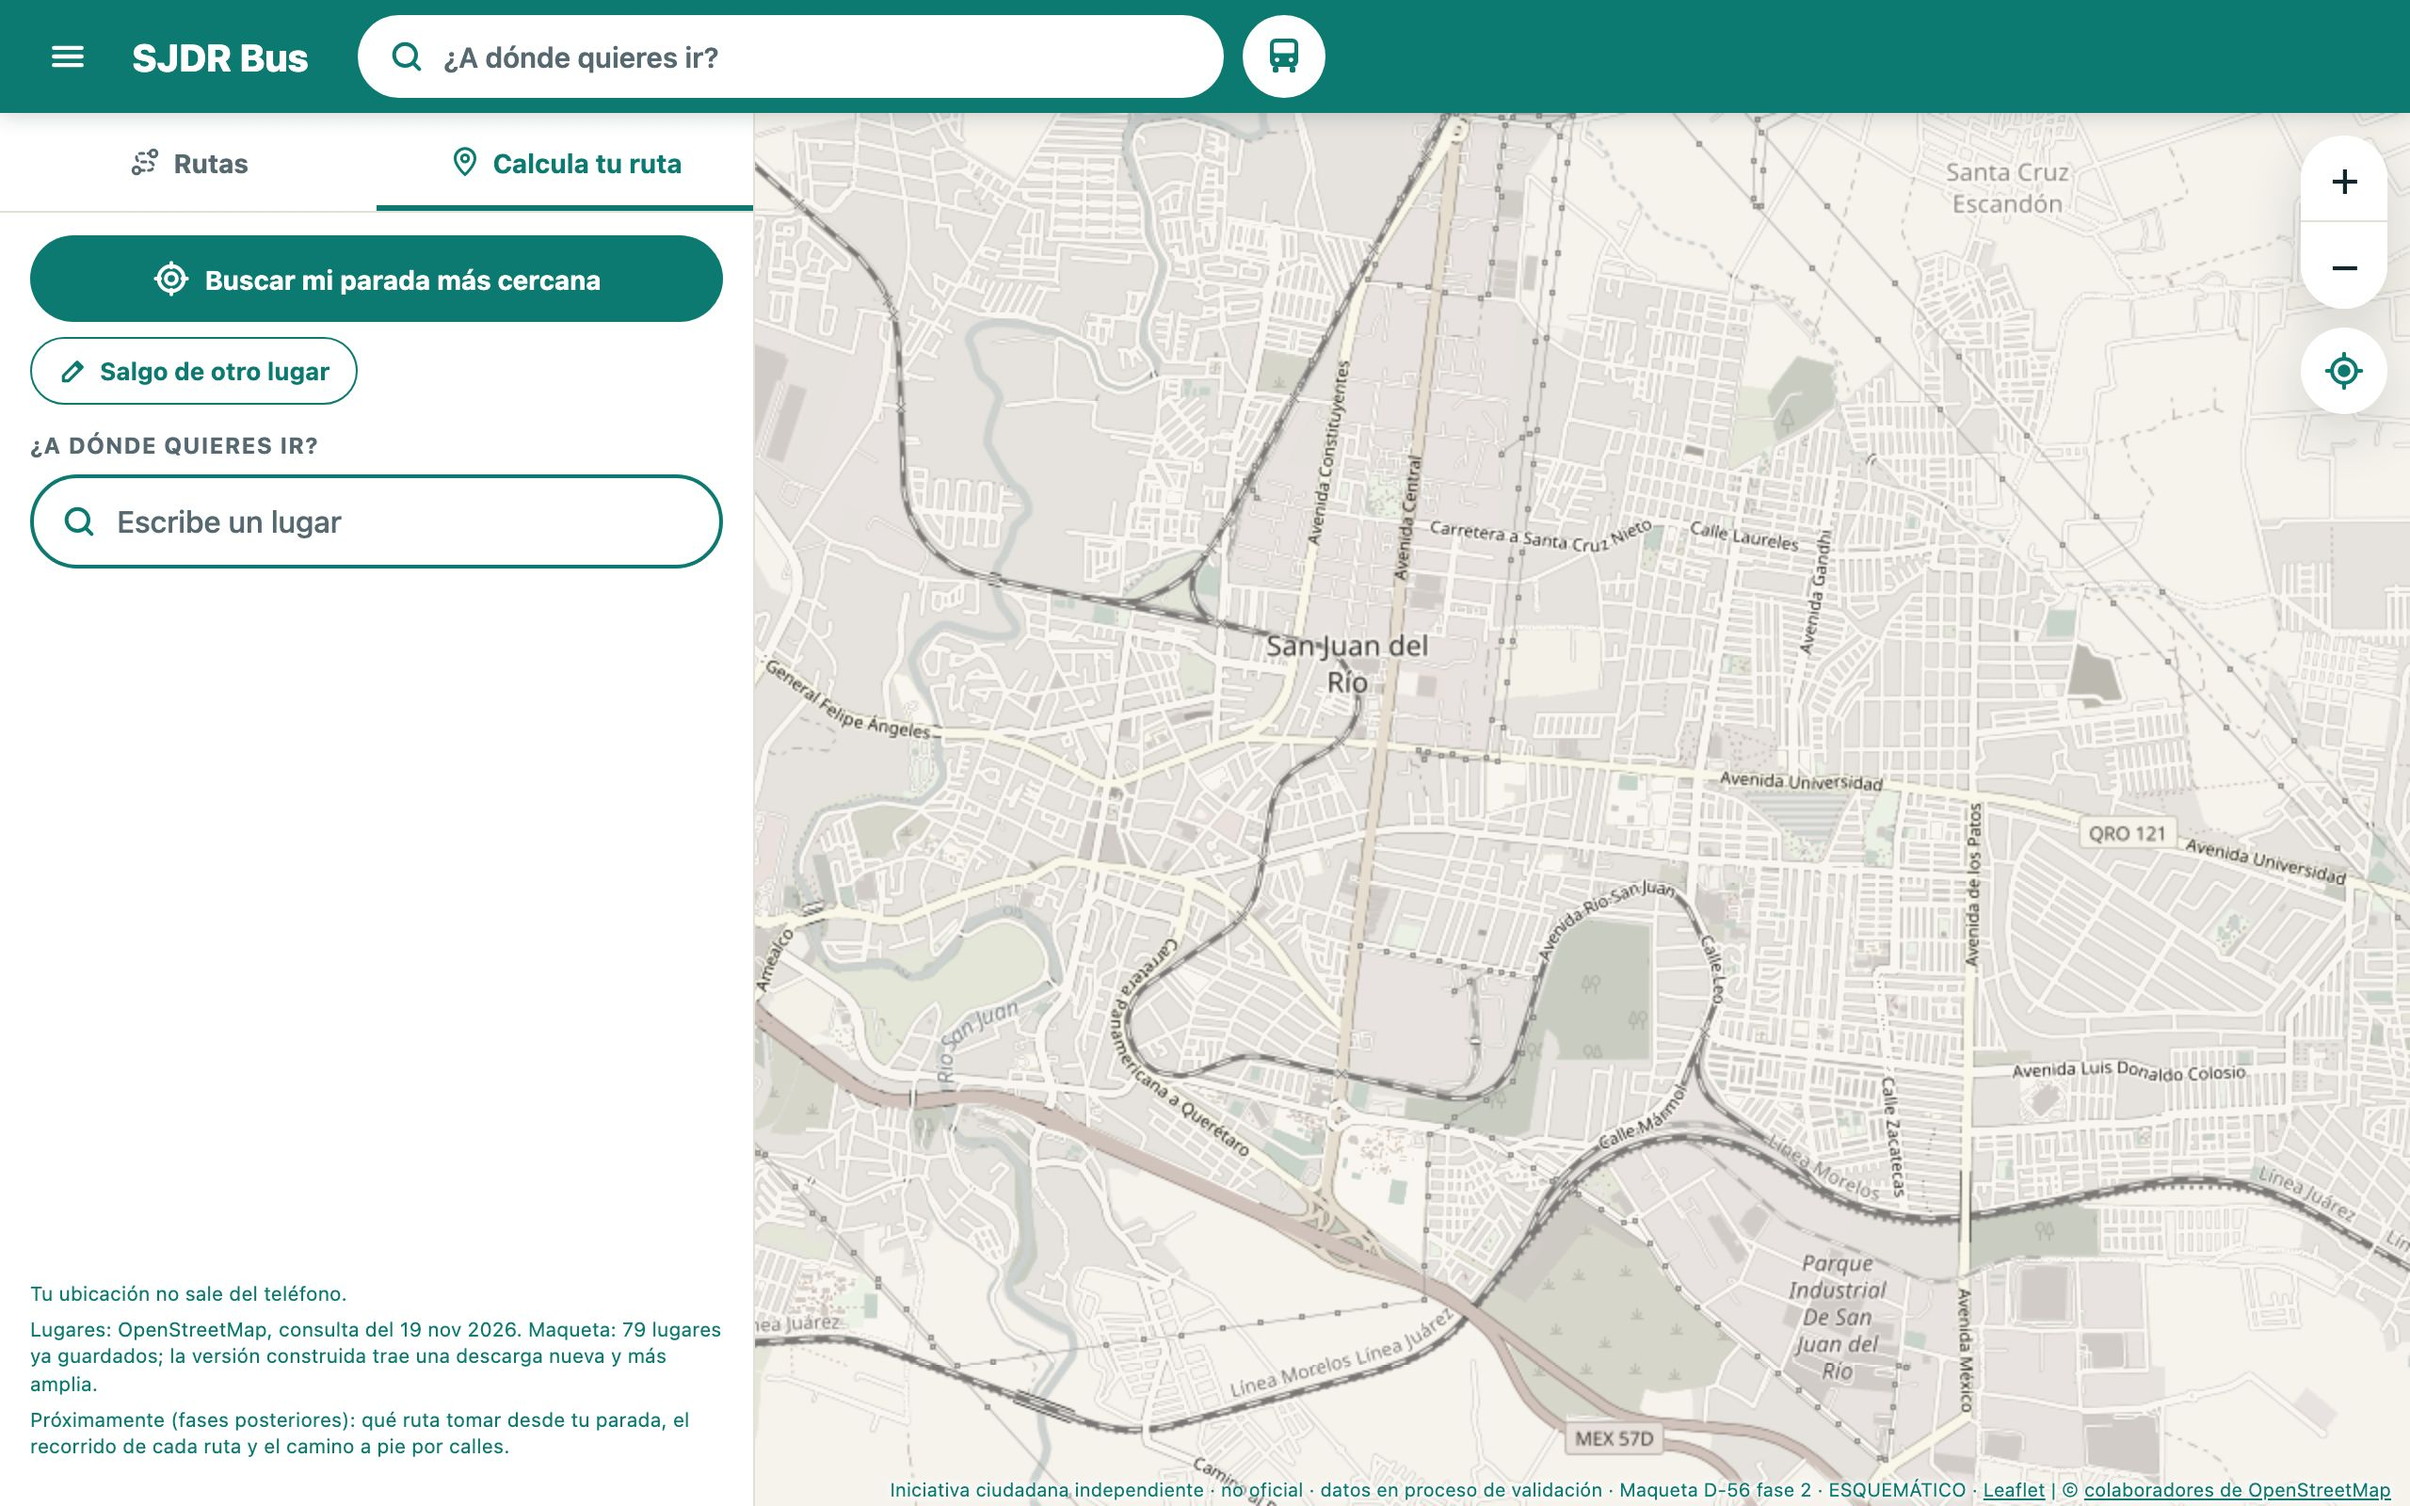
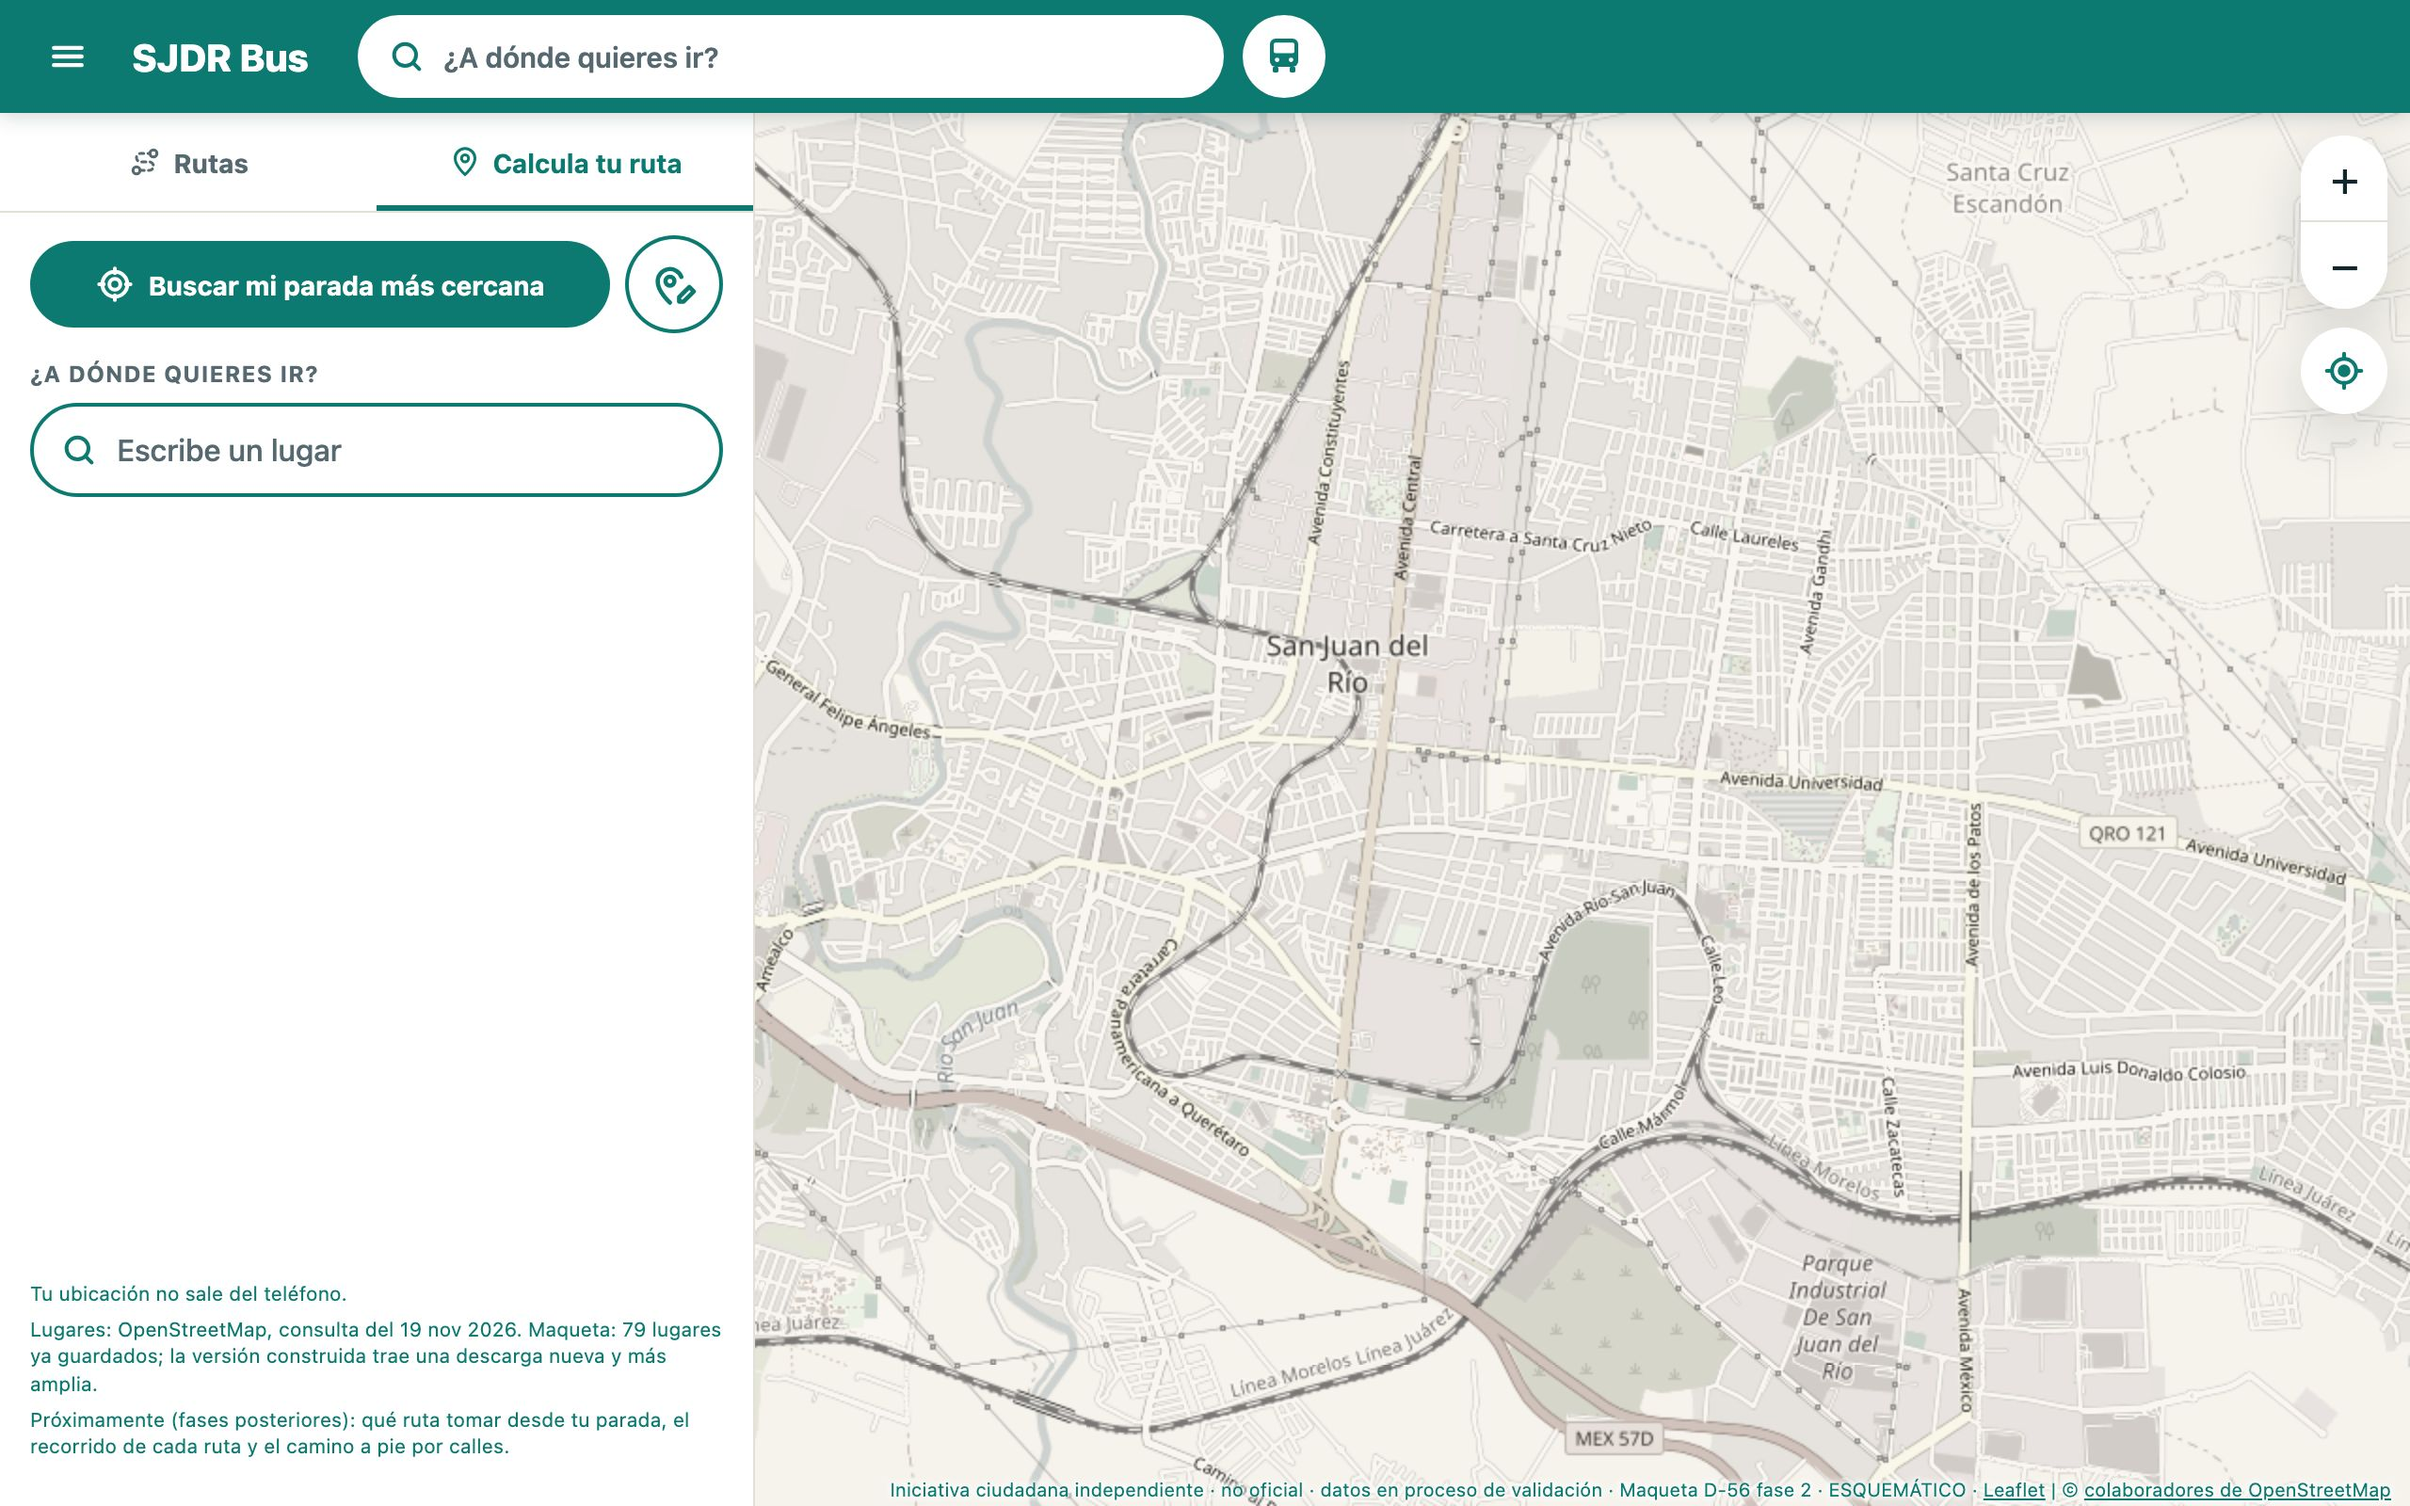
B6 · D-56 fase 2: ajustes de Miguel a la maqueta: «Salgo de otro lugar» como círculo con ícono en el renglón de tu parada (9:18 pm) y opción C, texto chico abajo y nombre 25 % más chico (9:25 pm)
- Medido: la línea de tu parada mide 52 px a 390 (hoy 59) y 52 a 76 px a 320 (hoy 102).
- Opciones A y B medidas y descartadas; quedan anotadas en inventario.md.
- capturar.mjs: fail 0 en 24 vistas. Pregunta abierta: ¿la línea del destino también a 10.5 px?

Changed region(s): [[0.0, 0.1562, 0.3125, 0.375]]

diff --git a/docs/maquetas/d56f2/maqueta.html b/docs/maquetas/d56f2/maqueta.html
@@ -310,13 +310,19 @@ button { font: inherit; color: inherit; }
 .nota { margin: 6px 0 0; font-size: 10.5px; line-height: 1.4; color: var(--primario); }
 .proximamente { margin: 0; font-size: 10.5px; line-height: 1.4; color: var(--primario); }
 
-/* D-56f2: «Salgo de otro lugar» (editar la salida). Botón secundario debajo de la
-   línea de tu parada, con lápiz y texto (en D-57 un ícono solo confundió). */
-.cambiar-salida {
-  display: inline-flex; align-items: center; gap: 6px; margin-top: 8px; min-height: 36px; padding: 0 14px;
-  border: 1.5px solid var(--primario); border-radius: 999px; background: var(--tarjeta); color: var(--primario);
-  font-size: 13px; font-weight: 700; cursor: pointer;
-}
+/* D-56f2, ajuste (Miguel, 22 nov 2026, 9:18 pm): «Salgo de otro lugar» es otro círculo
+   en el mismo renglón que tu parada y el botón de ubicación, con un ícono: pin con
+   lápiz (cambiar el lugar de salida). Contorno, para no confundirlo con el del GPS. */
+.otra.salida-otra { background: var(--tarjeta); color: var(--primario); box-shadow: inset 0 0 0 2px var(--primario); }
+.fila-salida { display: flex; align-items: center; gap: 8px; }
+.fila-salida .ubicacion { flex: 1; min-width: 0; }
+/* D-56f2, opción C (Miguel, 22 nov 2026, 9:25 pm): los tres en el mismo renglón y los
+   círculos del mismo tamaño (52 px); el texto chico de la línea pasa debajo del renglón,
+   a todo el ancho, y el nombre de la parada baja 25 % (14 → 10.5 px). Solo en el renglón
+   de tu parada; la línea de la parada del destino no cambia. */
+.nota-parada { margin: 6px 0 0 4px; font-size: 11.5px; color: var(--suave); }
+.parada-hallada.f2 .ver-parada small { display: none; }
+.parada-hallada.f2 .ver-parada b { font-size: 10.5px; }
 /* D-56f2: campo «¿Desde dónde sales?»: igual que «¿A dónde quieres ir?», más bajo. */
 .campo.salida { height: 44px; font-size: 15px; }
 .campo .quitar { margin-left: auto; width: 30px; height: 30px; border: 0; border-radius: 50%; background: var(--fondo); color: var(--suave); display: grid; place-items: center; }
@@ -706,7 +712,9 @@ const buscarF2 = (t) => catalogoF2().filter((l) => normF2(l.nombre).includes(nor
 const lugarF2 = (n) => catalogoF2().find((l) => l.nombre === n);
 const paradaCercaF2 = (p) => paradas.map((x) => ({ ...x, d: dist(p, x) })).sort((a, b) => a.d - b.d)[0];
 const LUPA_F2 = '<svg width="20" height="20" viewBox="0 0 24 24" fill="none" stroke="#0d7a72" stroke-width="2.4" stroke-linecap="round"><circle cx="11" cy="11" r="7"/><path d="m20 20-4-4"/></svg>';
-const LAPIZ_F2 = '<svg width="16" height="16" viewBox="0 0 24 24" fill="none" stroke="currentColor" stroke-width="2.4" stroke-linecap="round" stroke-linejoin="round"><path d="M4 20h4L19 9l-4-4L4 16v4z"/><path d="m13.5 6.5 4 4"/></svg>';
+// Ícono «salgo de otro lugar»: pin de lugar con un lápiz encima (cambiar el lugar).
+const SALIDA_F2 = '<svg width="26" height="26" viewBox="0 0 24 24" fill="none" stroke="currentColor" stroke-width="2.1" stroke-linecap="round" stroke-linejoin="round"><path d="M10 21s-6-5.4-6-10.2A6 6 0 0 1 15.6 8.4"/><circle cx="10" cy="10.5" r="2.2"/><path d="M14.5 20.5h2.2l5-5-2.2-2.2-5 5z"/></svg>';
+const BOTON_SALIDA_F2 = `<button class="otra salida-otra" aria-label="Salgo de otro lugar" title="Salgo de otro lugar">${SALIDA_F2}</button>`;
 const LUGAR_F2 = '<svg width="16" height="16" viewBox="0 0 24 24" fill="none" stroke="currentColor" stroke-width="2.4" stroke-linecap="round"><path d="M12 21s7-6.2 7-11.5a7 7 0 0 0-14 0C5 14.8 12 21 12 21z"/><circle cx="12" cy="9.5" r="2.5"/></svg>';
 const FLECHA_F2 = '<svg class="flecha" width="18" height="18" viewBox="0 0 24 24" fill="none" stroke="currentColor" stroke-width="2.6" stroke-linecap="round" stroke-linejoin="round"><path d="m9 6 6 6-6 6"/></svg>';
 const ACTUALIZAR_F2 = '<svg width="24" height="24" viewBox="0 0 24 24" fill="none" stroke="currentColor" stroke-width="2.2" stroke-linecap="round" stroke-linejoin="round"><path d="M20 12a8 8 0 1 1-2.34-5.66"/><path d="M20 4v4h-4"/><circle cx="12" cy="12" r="2.6" fill="currentColor" stroke="none"/></svg>';
@@ -738,9 +746,9 @@ function destinoF2(estado) {
     const derecha = escrita
       ? `<button class="otra" aria-label="Usar mi ubicación">${UB_F2(24)}</button>`
       : `<button class="otra" aria-label="Volver a buscar tu parada más cercana">${ACTUALIZAR_F2}</button>`;
-    arriba = `${escrita ? `<h3 class="titulo-seccion f2">Sales de ${escrita.nombre}</h3>` : ''}<div class="parada-hallada">${lineaF2(pSal, texto)}${derecha}</div><button class="cambiar-salida">${LAPIZ_F2}Salgo de otro lugar</button>`;
+    arriba = `${escrita ? `<h3 class="titulo-seccion f2">Sales de ${escrita.nombre}</h3>` : ''}<div class="parada-hallada f2">${lineaF2(pSal, texto)}${derecha}${BOTON_SALIDA_F2}</div><p class="nota-parada">${texto}</p>`;
   } else {
-    arriba = `<button class="ubicacion">${UB_F2()}Buscar mi parada más cercana</button><button class="cambiar-salida">${LAPIZ_F2}Salgo de otro lugar</button>`;
+    arriba = `<div class="fila-salida"><button class="ubicacion">${UB_F2()}Buscar mi parada más cercana</button>${BOTON_SALIDA_F2}</div>`;
   }
 
   // Abajo: «¿A dónde quieres ir?» con el catálogo amplio.

diff --git a/docs/maquetas/d56f2/inventario.md b/docs/maquetas/d56f2/inventario.md
@@ -14,12 +14,21 @@ Capturas en `capturas/` a 390 × 844, 320 × 640 y 1280 × 800.
    «Parada del Seguro de Kimberly · a 80 m / Parada más cercana a tu destino · en
    línea recta · por verificar». Al tocarla, como en D-57: el mapa va a la parada y
    abre su ficha. Vistas `f2-destino` y `f2-mapa`.
-3. **Editar desde dónde sales** (pedido 3, D-57). Debajo de tu parada, un botón
-   «✎ Salgo de otro lugar». Abre «¿Desde dónde sales?» y se elige de la misma lista
+3. **Editar desde dónde sales** (pedido 3, D-57). **Ajuste de Miguel (22 nov 2026,
+   9:18 pm):** «Salgo de otro lugar» es **otro círculo de 52 px en el mismo renglón**
+   que tu parada y el botón de ubicación, con un ícono (pin con lápiz), sin texto; de
+   contorno para no confundirlo con el del GPS. Antes de ubicarte va al lado de «Buscar
+   mi parada más cercana». Abre «¿Desde dónde sales?» y se elige de la misma lista
    guardada (sin geocodificar en vivo, regla 7). Ya elegido: arriba dice «Sales de
-   Mercado 5 de mayo», la línea dice «Cerca de tu salida · en línea recta · por
-   verificar» y el botón redondo de la derecha cambia a «usar mi ubicación».
-   Vistas `f2-salida` y `f2-completo`.
+   Mercado 5 de mayo» y el círculo verde cambia a «usar mi ubicación».
+   **Opción C (Miguel, 9:25 pm),** porque con tres en el renglón la línea crecía (medido:
+   119 px a 390 y 179 px a 320, contra 59 y 102 de hoy): el texto chico («Tu parada más
+   cercana · en línea recta · por verificar» o «Cerca de tu salida · …») pasa debajo
+   del renglón, a todo el ancho, y el nombre de la parada baja 25 % (14 → 10.5 px).
+   Resultado: 52 px a 390 y 52 a 76 px a 320. Solo en este renglón; la línea de la
+   parada del destino no cambia. Vistas `f2-inicio`, `f2-destino`, `f2-salida` y
+   `f2-completo`. Opciones descartadas: A (tal cual, 179 px a 320) y B (círculos de
+   44 px, casi no ayudaba).
 4. **Mapa.** Con salida y destino: un punto con etiqueta para cada lugar (etiqueta
    debajo del punto, para no tapar el ícono de la parada) y sus dos paradas. **Sin
    línea entre ellos** (regla 1: el camino a pie es la fase 3).
@@ -30,7 +39,9 @@ Capturas en `capturas/` a 390 × 844, 320 × 640 y 1280 × 800.
 - Pestaña «Rutas», tarjetas, detalle, mapa, zoom, círculo «mi ubicación», bienvenida
   y pie: idénticos a D-62. Las vistas `destino` y `ubicado` de D-57 siguen iguales.
 - Inventario de estilos (lección 13): de 163 selectores de D-62 no desaparece
-  ninguno; se agregan 11, todos con la marca «D-56f2».
+  ninguno; los nuevos llevan la marca «D-56f2».
+- Las vistas `destino` y `ubicado` (D-57, como está publicado) conservan su línea de
+  14 px con el texto chico dentro (medido: 59 px a 390).
 
 ## Datos de la maqueta (reales, regla 1)
 - Lugares: `lugares-maqueta.js`, de `datos/cache/overpass/lugares.json` (OSM, 19 nov
@@ -47,12 +58,13 @@ Capturas en `capturas/` a 390 × 844, 320 × 640 y 1280 × 800.
   se sabe al descargar].
 
 ## Preguntas para Miguel (no se aplicaron)
-1. ¿«Salgo de otro lugar» como botón con texto debajo de tu parada te parece claro, o
-   lo prefieres solo con el ícono del lápiz?
-2. Observación, sin cambio: a 320 px el botón de D-57 «Buscar mi parada más cercana»
+1. Respondida (9:18 y 9:25 pm): círculo con ícono en el renglón, opción C.
+2. ¿La línea de la parada del **destino** también lleva el nombre a 10.5 px, para que
+   las dos se vean iguales? (No se aplicó: Miguel pidió solo la de tu parada.)
+3. Observación, sin cambio: a 320 px el botón de D-57 «Buscar mi parada más cercana»
    ya ocupa dos renglones (así está publicado en v0.2).
 
 ## Medición (`capturar.mjs`)
 24 vistas (6 nuevas + 2 de D-57, en 3 anchos): sin scroll de lado, sin textos
 cortados y sin errores de la página: **fail 0**. Con un defecto puesto a propósito
-(el botón «Salgo de otro lugar» angosto) la medición marcó 13 fallas (lección 15).
+(en la primera versión: el botón con texto «Salgo de otro lugar» angosto) la medición marcó 13 fallas (lección 15). Tras el ajuste de las 9:25 pm, otra vez fail 0.

diff --git a/docs/DECISIONES.md b/docs/DECISIONES.md
@@ -1594,6 +1594,11 @@ Miguel).
   - Fase 3: B3 (R-03 a R-06) → R-07 → B6 completo: qué ruta tomar, dónde bajar,
     transbordos y camino a pie por calles.
 - **Decide:** Miguel.
+- **Fase 2 · maqueta (22 nov 2026):** `docs/maquetas/d56f2/` (criterios, inventario,
+  capturas a 390, 320 y 1280 px). Ajustes de Miguel: «Salgo de otro lugar» como círculo
+  con ícono en el mismo renglón que tu parada (9:18 pm) y opción C: el texto chico
+  debajo del renglón y el nombre de la parada 25 % más chico (9:25 pm). Falta su sí
+  para construir.
 
 ## D-57 · 20 nov 2026 · «Calcula tu ruta»: la parada más cercana arriba y con poca letra · CONSTRUIDA · APROBADA (Miguel, en su teléfono, 21 nov 2026, 12:34 am)
 - **Pedido (Miguel, 20 nov 2026, 10:55 pm),** al probar D-55: al escribir el
